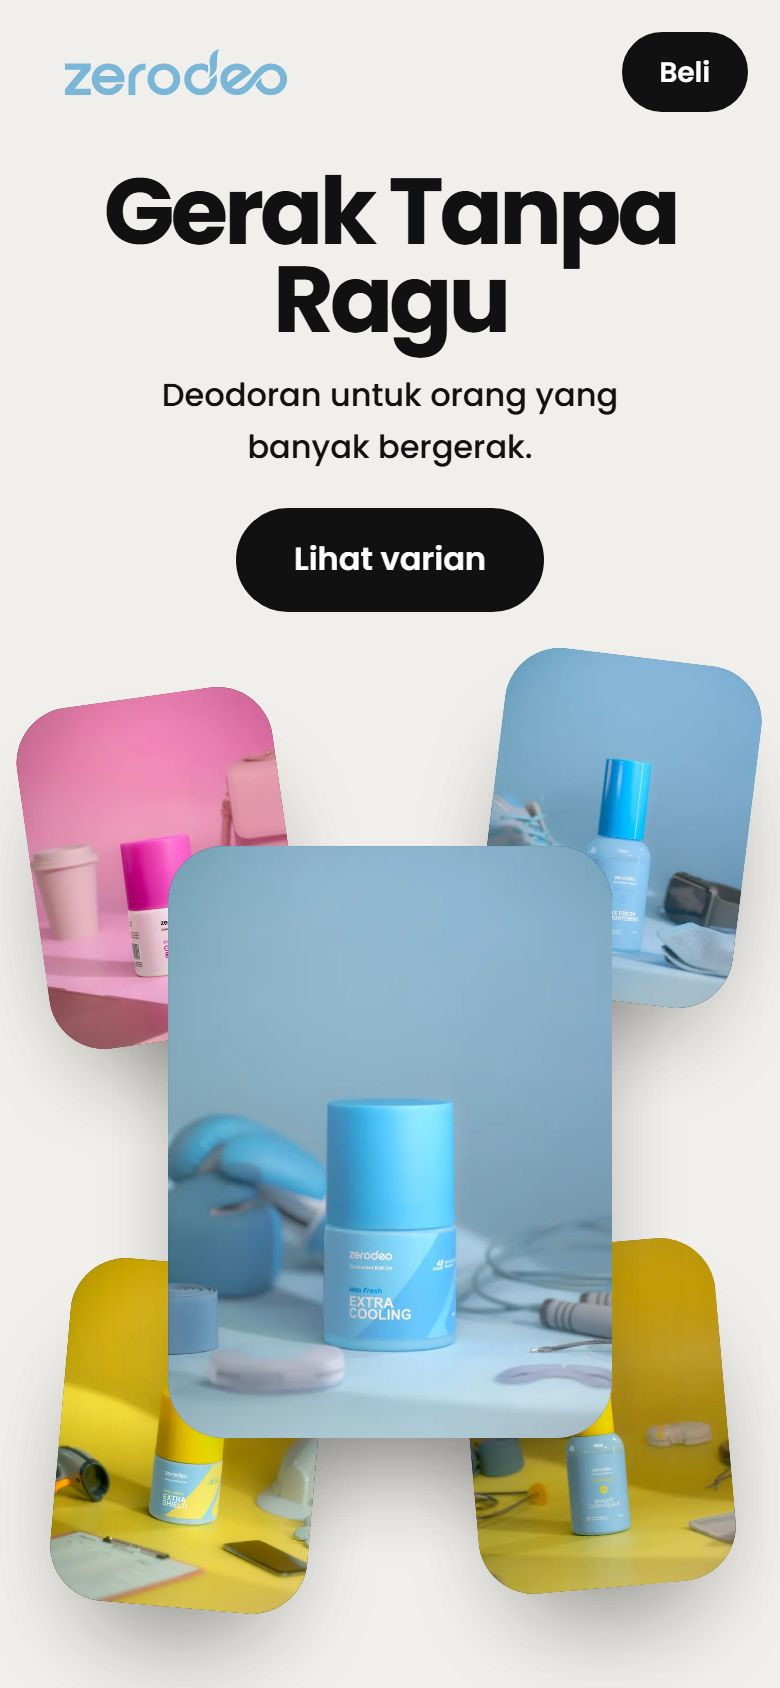
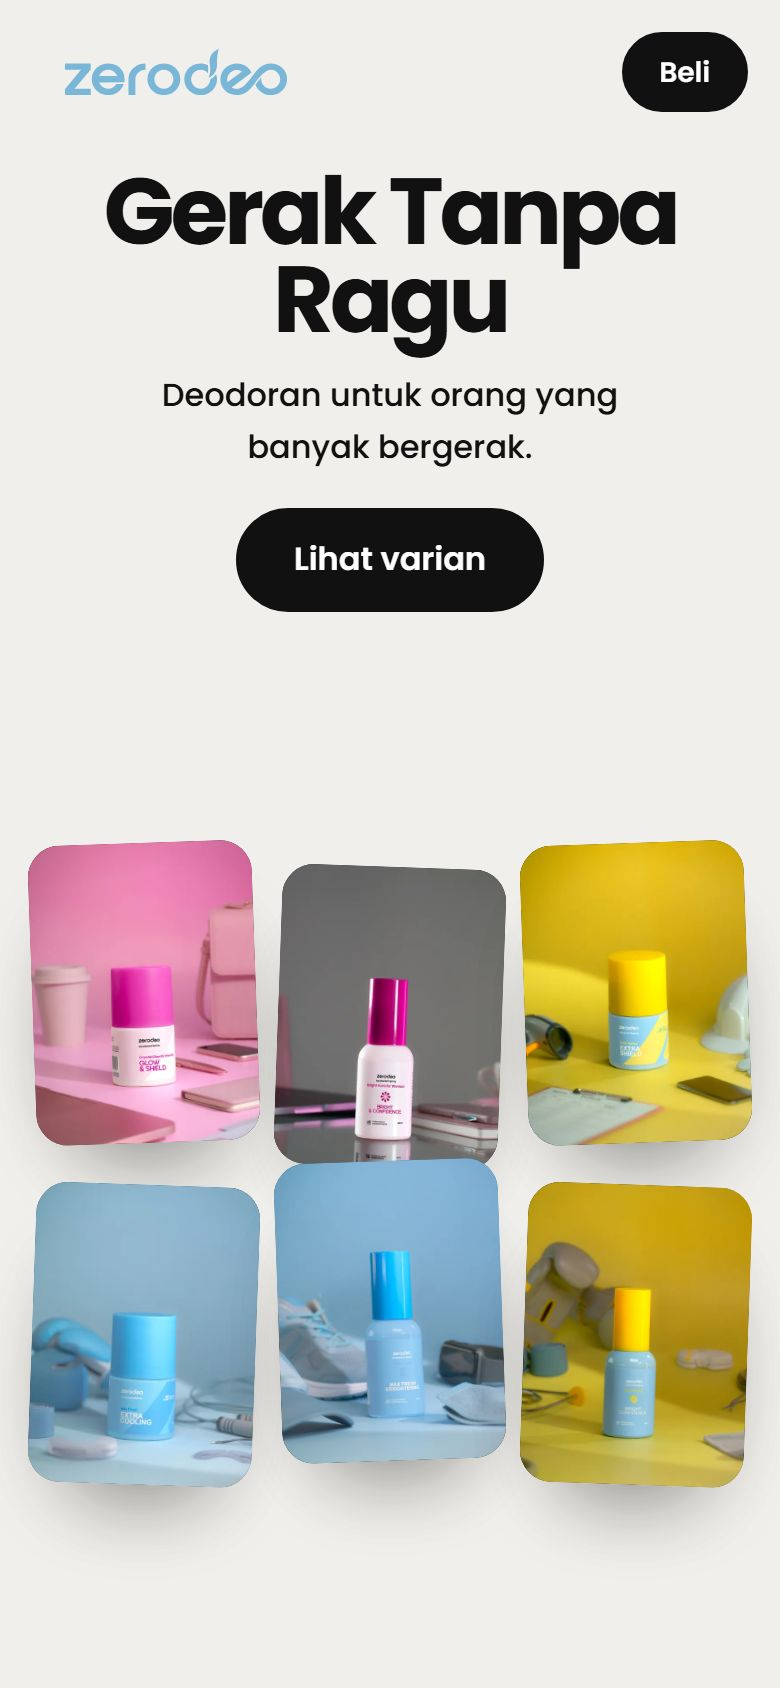
Hero: enam varian sama besar dalam grid 3x2
Tidak ada lagi satu produk yang besar sendiri. Keenam varian tampil
sama besar, menyala serentak dari siluet, dan tiap kolom bergeser
dengan kecepatan berbeda saat scroll.

diff --git a/index.html b/index.html
@@ -17,7 +17,7 @@
   <link rel="preconnect" href="https://fonts.googleapis.com">
   <link rel="preconnect" href="https://fonts.gstatic.com" crossorigin>
   <link href="https://fonts.googleapis.com/css2?family=Poppins:wght@400;500;600;700&display=swap" rel="stylesheet">
-  <link rel="preload" as="image" type="image/webp" imagesrcset="img/hero/max-fresh-siluet-800.webp 800w, img/hero/max-fresh-siluet-1200.webp 1200w" imagesizes="(min-width: 700px) 420px, 70vw">
+  
   <link rel="stylesheet" href="css/style.css">
 </head>
 <body>
@@ -50,29 +50,33 @@
         </div>
 
         <div class="hero-layers">
-          <figure class="layer layer-a" data-dir="-1" data-speed="1.4">
-            <img class="hero-siluet" src="img/scene/crystal-glow-1-siluet-500.webp" width="500" height="666" alt="">
-            <img class="hero-terang" src="img/scene/crystal-glow-1-500.webp" width="500" height="666" alt="Zerodeo Crystal Glow roll on di meja kerja berlatar pink">
-          </figure>
-          <figure class="layer layer-b" data-dir="-1" data-speed="0.8">
-            <img class="hero-siluet" src="img/scene/daily-active-3-siluet-500.webp" width="500" height="666" alt="">
-            <img class="hero-terang" src="img/scene/daily-active-3-500.webp" width="500" height="666" alt="Zerodeo Daily Active roll on berlatar kuning dengan helm proyek">
-          </figure>
-          <figure class="layer layer-c" data-dir="1" data-speed="1.2">
-            <img class="hero-siluet" src="img/scene/vital-fresh-2-siluet-500.webp" width="500" height="666" alt="">
-            <img class="hero-terang" src="img/scene/vital-fresh-2-500.webp" width="500" height="666" alt="Zerodeo Vital Fresh spray dengan sepatu lari">
-          </figure>
-          <figure class="layer layer-d" data-dir="1" data-speed="0.7">
-            <img class="hero-siluet" src="img/scene/zen-protect-2-siluet-500.webp" width="500" height="666" alt="">
-            <img class="hero-terang" src="img/scene/zen-protect-2-500.webp" width="500" height="666" alt="Zerodeo Zen Protect spray berlatar kuning dengan sarung tinju">
-          </figure>
-
-          <figure class="layer-main">
-            <img class="hero-siluet" src="img/hero/max-fresh-siluet-1200.webp" srcset="img/hero/max-fresh-siluet-800.webp 800w, img/hero/max-fresh-siluet-1200.webp 1200w" sizes="(min-width: 700px) 420px, 70vw" width="1200" height="1599" alt="" fetchpriority="high">
-            <img class="hero-terang" src="img/hero/max-fresh-terang-1200.webp" srcset="img/hero/max-fresh-terang-800.webp 800w, img/hero/max-fresh-terang-1200.webp 1200w" sizes="(min-width: 700px) 420px, 70vw" width="1200" height="1599" alt="Zerodeo Max Fresh roll on, kemasan Extra Cooling, dengan sarung tinju dan tali skipping">
-          </figure>
+          <div class="hero-grid">
+            <figure class="tile">
+              <img class="hero-siluet" src="img/scene/crystal-glow-1-siluet-500.webp" width="500" height="666" alt="">
+              <img class="hero-terang" src="img/scene/crystal-glow-1-500.webp" width="500" height="666" alt="Zerodeo Crystal Glow roll on di meja kerja berlatar pink">
+            </figure>
+            <figure class="tile">
+              <img class="hero-siluet" src="img/scene/bright-aura-1-siluet-500.webp" width="500" height="666" alt="">
+              <img class="hero-terang" src="img/scene/bright-aura-1-500.webp" width="500" height="666" alt="Zerodeo Bright Aura spray di meja kantor">
+            </figure>
+            <figure class="tile">
+              <img class="hero-siluet" src="img/scene/daily-active-3-siluet-500.webp" width="500" height="666" alt="">
+              <img class="hero-terang" src="img/scene/daily-active-3-500.webp" width="500" height="666" alt="Zerodeo Daily Active roll on berlatar kuning dengan helm proyek">
+            </figure>
+            <figure class="tile">
+              <img class="hero-siluet" src="img/scene/max-fresh-3-siluet-500.webp" width="500" height="666" alt="">
+              <img class="hero-terang" src="img/scene/max-fresh-3-500.webp" width="500" height="666" alt="Zerodeo Max Fresh roll on dengan sarung tinju dan tali skipping">
+            </figure>
+            <figure class="tile">
+              <img class="hero-siluet" src="img/scene/vital-fresh-2-siluet-500.webp" width="500" height="666" alt="">
+              <img class="hero-terang" src="img/scene/vital-fresh-2-500.webp" width="500" height="666" alt="Zerodeo Vital Fresh spray dengan sepatu lari">
+            </figure>
+            <figure class="tile">
+              <img class="hero-siluet" src="img/scene/zen-protect-2-siluet-500.webp" width="500" height="666" alt="">
+              <img class="hero-terang" src="img/scene/zen-protect-2-500.webp" width="500" height="666" alt="Zerodeo Zen Protect spray berlatar kuning dengan sarung tinju">
+            </figure>
+          </div>
         </div>
-
       </div>
     </section>
 

diff --git a/css/style.css b/css/style.css
@@ -108,22 +108,19 @@ button { font: inherit; color: inherit; }
 }
 .hero-line { margin-top: clamp(18px, 2.4vw, 28px); font-size: clamp(17px, 1.7vw, 22px); font-weight: 500; max-width: 24ch; }
 .hero-foot { margin-top: clamp(24px, 3vw, 36px); }
-.hero-layers { position: relative; height: 100%; max-height: 760px; container-type: size; }
-.layer-main {
-  position: absolute; z-index: 3; left: 50%; top: 50%; translate: -50% -50%;
-  width: min(66cqw, 88cqh * .75); aspect-ratio: 3 / 4;
+.hero-layers { position: relative; height: 100%; max-height: 720px; container-type: size; }
+/* Enam varian sama besar, 3 x 2. Ukuran grid mengikuti kotaknya (container query). */
+.hero-grid {
+  position: absolute; left: 50%; top: 50%; translate: -50% -50%;
+  width: min(100cqw, 100cqh * 9 / 8); display: grid; grid-template-columns: repeat(3, 1fr); gap: 3%;
 }
-.layer-main img, .layer img {
-  width: 100%; height: 100%; object-fit: cover; border-radius: var(--radius);
-  box-shadow: 0 30px 60px -30px rgba(17, 17, 17, .4);
+.tile { position: relative; aspect-ratio: 3 / 4; }
+.tile:nth-child(odd) { rotate: -2deg; }
+.tile:nth-child(even) { rotate: 2deg; translate: 0 8%; }
+.tile img {
+  position: absolute; inset: 0; width: 100%; height: 100%; object-fit: cover; border-radius: var(--radius-sm);
+  box-shadow: 0 24px 48px -28px rgba(17, 17, 17, .45);
 }
-.layer-main img, .layer img { position: absolute; inset: 0; }
-/* Foto varian lain mengintip dari balik produk utama */
-.layer { position: absolute; z-index: 2; aspect-ratio: 3 / 4; width: min(34cqw, 36cqh * .75); }
-.layer-a { left: 0;  top: 6%;     rotate: -8deg; }
-.layer-b { left: 4%; bottom: 4%;  rotate: 5deg; }
-.layer-c { right: 0; top: 2%;     rotate: 7deg; }
-.layer-d { right: 3%; bottom: 6%; rotate: -5deg; }
 
 /* Lampu mati: hero gelap, produk tinggal siluet. Kelas dilepas JS sehingga lampu menyala. */
 .hero { transition: background-color 1.6s ease; }
@@ -144,8 +141,6 @@ button { font: inherit; color: inherit; }
   .hero-title { font-size: clamp(40px, 12vw, 60px); max-width: none; }
   .hero-line { margin: 12px auto 0; font-size: 16px; }
   .hero-foot { margin-top: 18px; }
-  .layer-main { width: min(62cqw, 92cqh * .75); }
-  .layer { width: min(36cqw, 40cqh * .75); }
 }
 
 /* 2. Formula */

diff --git a/js/main.js b/js/main.js
@@ -283,14 +283,11 @@
       var tl = gsap.timeline({
         scrollTrigger: { trigger: ".hero", start: "top top", end: "bottom bottom", scrub: 0.6 }
       });
-      gsap.utils.toArray(".hero .layer").forEach(function (layer) {
-        var dir = Number(layer.getAttribute("data-dir"));
-        var speed = Number(layer.getAttribute("data-speed"));
-        /* Semua foto sudah tampil sejak awal; saat scroll bergeser menjauh dengan kecepatan berbeda */
-        tl.to(layer, { x: function () { return dir * window.innerWidth * 0.06 * speed; }, y: -40 * speed, ease: "none", duration: 1.4 }, 0);
+      /* Tiap kolom bergeser dengan kecepatan berbeda */
+      gsap.utils.toArray(".hero .tile").forEach(function (tile, i) {
+        tl.to(tile, { y: [-30, -90, -50][i % 3], ease: "none", duration: 1.4 }, 0);
       });
-      tl.to(".layer-main", { scale: 0.94, ease: "none", duration: 1.4 }, 0)
-        .to(".hero-copy", { y: -40, ease: "none", duration: 1.4 }, 0);
+      tl.to(".hero-copy", { y: -40, ease: "none", duration: 1.4 }, 0);
 
       /* Reel: jendela lengkung membesar pelan saat bagian ini masuk layar (tanpa pin, jadi tidak hilang tiba-tiba) */
       gsap.timeline({ scrollTrigger: { trigger: ".reel", start: "top 85%", end: "top 10%", scrub: 0.6 } })
